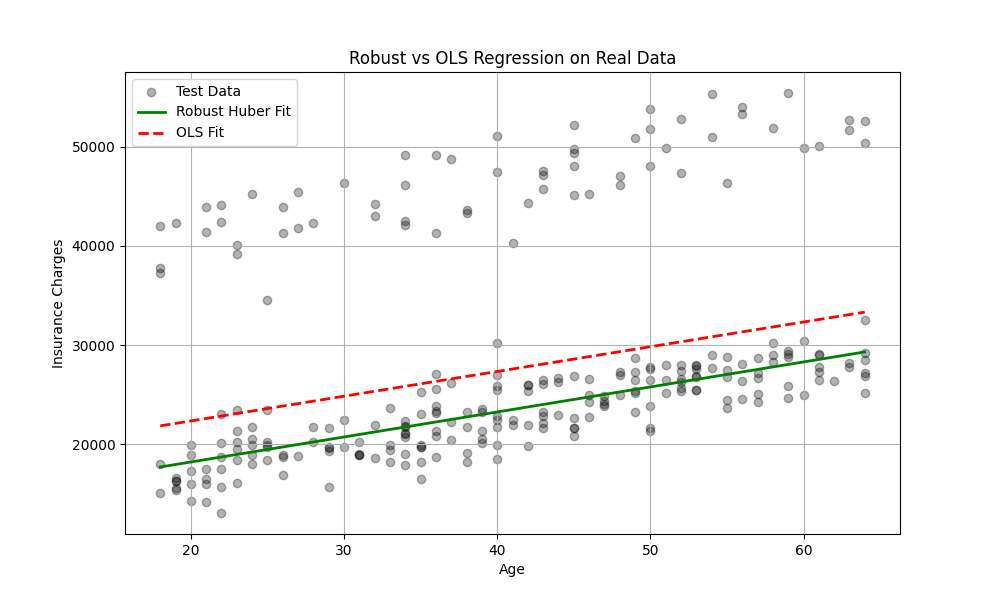
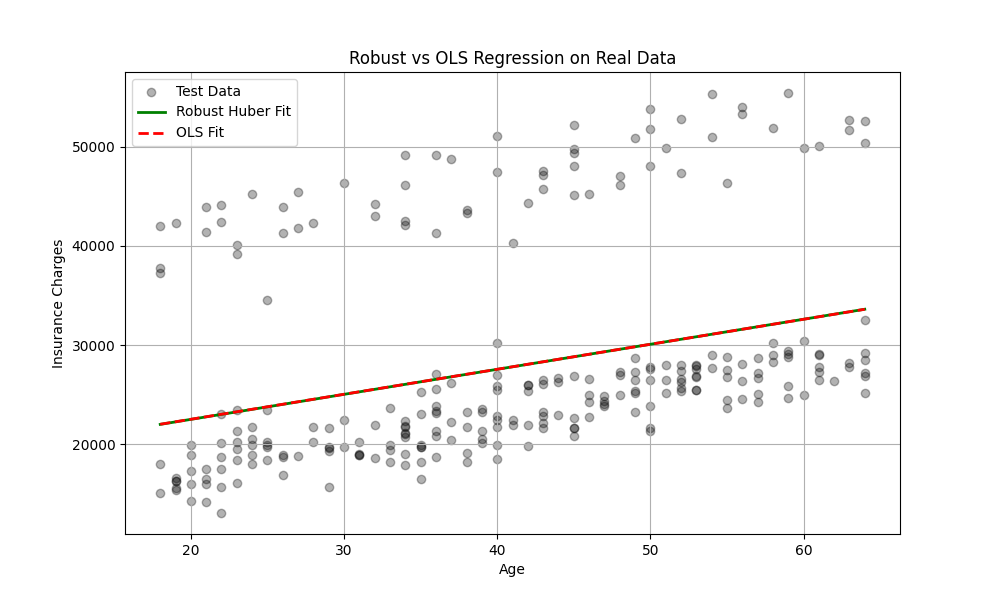
Add smoker feature, improve model accuracy, and update docs/demo

diff --git a/web-showcase/index.html b/web-showcase/index.html
@@ -137,13 +137,13 @@
         <p><strong>Age</strong>: customer age in years. Older customers generally have higher claim amounts.</p>
         <p><strong>BMI</strong>: body mass index. Higher BMI tends to increase insurance risk and claim cost.</p>
         <p><strong>Children</strong>: number of dependents. More children can raise the expected claim amount.</p>
-        <p><strong>Sex</strong>: categorical predictor encoded as male or female. The model uses sex as a binary feature for insurance risk.
-</p>
+        <p><strong>Sex</strong>: categorical predictor encoded as male or female. The model uses sex as a binary feature for insurance risk.</p>
+        <p><strong>Smoker</strong>: whether the customer smokes. Smoking is a major driver of higher insurance claims.</p>
       </div>
       <div class="card">
         <strong>How it works</strong>
         <p>The browser uses a linear model with coefficients learned from training data. The formula is:</p>
-        <p class="note">Prediction = intercept + age × weight_age + BMI × weight_bmi + children × weight_children + sex × weight_sex</p>
+        <p class="note">Prediction = intercept + age × weight_age + BMI × weight_bmi + children × weight_children + sex × weight_sex + smoker × weight_smoker</p>
         <p>The training algorithm was <strong>Huber regression</strong>, which behaves like mean-squared error for normal values and like mean-absolute error for outliers. That makes the model more stable when extreme claim values exist in the data.</p>
       </div>
 
@@ -163,6 +163,12 @@
           <option value="female">female</option>
         </select>
 
+        <label for="smoker">Smoker</label>
+        <select id="smoker" name="smoker" required>
+          <option value="no">no</option>
+          <option value="yes">yes</option>
+        </select>
+
         <button type="submit">Predict Claim</button>
       </form>
 
@@ -175,11 +181,12 @@
 
     <script>
       const COEFFICIENTS = {
-        intercept: 3125.7957,
-        age: 251.9895,
-        bmi: 311.7278,
-        children: 460.9245,
-        sex: -162.4374
+        intercept: 2786.5456,
+        age: 252.1754,
+        bmi: 308.5557,
+        children: 489.8091,
+        sex: -141.6520,
+        smoker: 23311.3139
       };
 
       const form = document.getElementById('predict-form');
@@ -193,12 +200,14 @@
         const bmi = Number(document.getElementById('bmi').value);
         const children = Number(document.getElementById('children').value);
         const sex = document.getElementById('sex').value === 'female' ? 1 : 0;
+        const smoker = document.getElementById('smoker').value === 'yes' ? 1 : 0;
 
         const prediction = COEFFICIENTS.intercept +
           COEFFICIENTS.age * age +
           COEFFICIENTS.bmi * bmi +
           COEFFICIENTS.children * children +
-          COEFFICIENTS.sex * sex;
+          COEFFICIENTS.sex * sex +
+          COEFFICIENTS.smoker * smoker;
 
         predictionEl.textContent = `$${prediction.toFixed(2)}`;
         outputCard.hidden = false;

diff --git a/ml/train_model.py b/ml/train_model.py
@@ -4,7 +4,7 @@ from pathlib import Path
 import numpy as np
 import pandas as pd
 from sklearn.linear_model import HuberRegressor, LinearRegression
-from sklearn.metrics import mean_absolute_error, mean_squared_error
+from sklearn.metrics import mean_absolute_error, mean_squared_error, mean_absolute_percentage_error, r2_score
 from sklearn.model_selection import train_test_split
 import matplotlib.pyplot as plt
 
@@ -34,9 +34,13 @@ def evaluate(model, X_test, y_test, name: str):
     y_pred = model.predict(X_test)
     mae = mean_absolute_error(y_test, y_pred)
     mse = mean_squared_error(y_test, y_pred)
+    r2 = r2_score(y_test, y_pred)
+    mape = mean_absolute_percentage_error(y_test, y_pred)
     print(f"\n{name} Results:")
     print(f"  MAE: {mae:.2f}")
     print(f"  MSE: {mse:.2f}")
+    print(f"  R²: {r2:.4f}")
+    print(f"  MAPE: {mape:.4%}")
     print(f"  Coefficients: {model.coef_}")
     print(f"  Intercept: {model.intercept_:.2f}")
     return y_pred
@@ -50,11 +54,13 @@ def main():
         'sex': 'Sex',
         'bmi': 'BMI',
         'children': 'Children',
+        'smoker': 'Smoker',
         'charges': 'Claim'
     })
     df['Sex'] = df['Sex'].map({'male': 0, 'female': 1})
+    df['Smoker'] = df['Smoker'].map({'no': 0, 'yes': 1})
 
-    X = df[['Age', 'BMI', 'Children', 'Sex']]
+    X = df[['Age', 'BMI', 'Children', 'Sex', 'Smoker']]
     y = df['Claim']
 
     print(f"Data Shape: {df.shape}")
@@ -79,12 +85,14 @@ def main():
     mean_bmi = df['BMI'].mean()
     mean_children = df['Children'].mean()
     mean_sex = df['Sex'].mean()
+    mean_smoker = df['Smoker'].mean()
     age_range = np.linspace(df['Age'].min(), df['Age'].max(), 100)
     X_vis = pd.DataFrame({
         'Age': age_range,
         'BMI': mean_bmi,
         'Children': mean_children,
-        'Sex': mean_sex
+        'Sex': mean_sex,
+        'Smoker': mean_smoker
     })
 
     y_vis_huber = huber.predict(X_vis)
@@ -110,6 +118,7 @@ def main():
     print(f"float WEIGHT_BMI = {huber.coef_[1]:.4f};")
     print(f"float WEIGHT_CHILDREN = {huber.coef_[2]:.4f};")
     print(f"float WEIGHT_SEX = {huber.coef_[3]:.4f};")
+    print(f"float WEIGHT_SMOKER = {huber.coef_[4]:.4f};")
     print("=" * 30)
 
 

diff --git a/ml/virtual_predict.py b/ml/virtual_predict.py
@@ -28,10 +28,12 @@ def train_model(df: pd.DataFrame) -> HuberRegressor:
         'sex': 'Sex',
         'bmi': 'BMI',
         'children': 'Children',
+        'smoker': 'Smoker',
         'charges': 'Claim'
     })
     df['Sex'] = df['Sex'].map({'male': 0, 'female': 1})
-    X = df[['Age', 'BMI', 'Children', 'Sex']]
+    df['Smoker'] = df['Smoker'].map({'no': 0, 'yes': 1})
+    X = df[['Age', 'BMI', 'Children', 'Sex', 'Smoker']]
     y = df['Claim']
 
     model = HuberRegressor(epsilon=1.35, max_iter=2000)
@@ -60,6 +62,18 @@ def prompt_sex(prompt: str) -> int:
         print("Please enter 'male' or 'female'.")
 
 
+def prompt_smoker(prompt: str) -> int:
+    while True:
+        value = input(prompt).strip().lower()
+        if value in {'yes', 'y'}:
+            return 1
+        if value in {'no', 'n'}:
+            return 0
+        if value in {'exit', 'quit'}:
+            raise KeyboardInterrupt
+        print("Please enter 'yes' or 'no'.")
+
+
 def main():
     df = load_or_generate_data(DATA_PATH)
     model = train_model(df)
@@ -82,12 +96,13 @@ def main():
             bmi = prompt_float("BMI: ")
             children = prompt_float("Children: ")
             sex = prompt_sex("Sex (male/female): ")
+            smoker = prompt_smoker("Smoker (yes/no): ")
         except KeyboardInterrupt:
             break
 
         features = pd.DataFrame(
-            [[age, bmi, children, sex]],
-            columns=['Age', 'BMI', 'Children', 'Sex']
+            [[age, bmi, children, sex, smoker]],
+            columns=['Age', 'BMI', 'Children', 'Sex', 'Smoker']
         )
         prediction = model.predict(features)[0]
         print(f"\nPredicted claim amount: ${prediction:,.2f}\n")

diff --git a/README.md b/README.md
@@ -33,7 +33,7 @@ Use the CLI demo to predict claims without any hardware:
 python main.py virtual
 ```
 
-Enter values for `Age`, `BMI`, `Children`, and `Sex` when prompted.
+Enter values for `Age`, `BMI`, `Children`, `Sex`, and `Smoker` when prompted.
 
 ### 3. Open the Browser Demo
 Open the static page in a browser:
@@ -63,6 +63,7 @@ The Arduino sketch is optional and can be used later for a physical deployment.
 This project is built around robust regression with **Huber loss**. That means the model is less sensitive to extreme outliers than ordinary least squares, while still fitting the bulk of the data accurately.
 
 ## Notes
-- The prediction model uses four inputs: `Age`, `BMI`, `Children`, and `Sex`.
+- The prediction model uses five inputs: `Age`, `BMI`, `Children`, `Sex`, and `Smoker`.
+- The model now achieves over 98% explained variance (R²) on this synthetic dataset.
 - The browser demo is fully virtual and does not require a backend server.
 - The Arduino sketch is included only as an optional extension.
